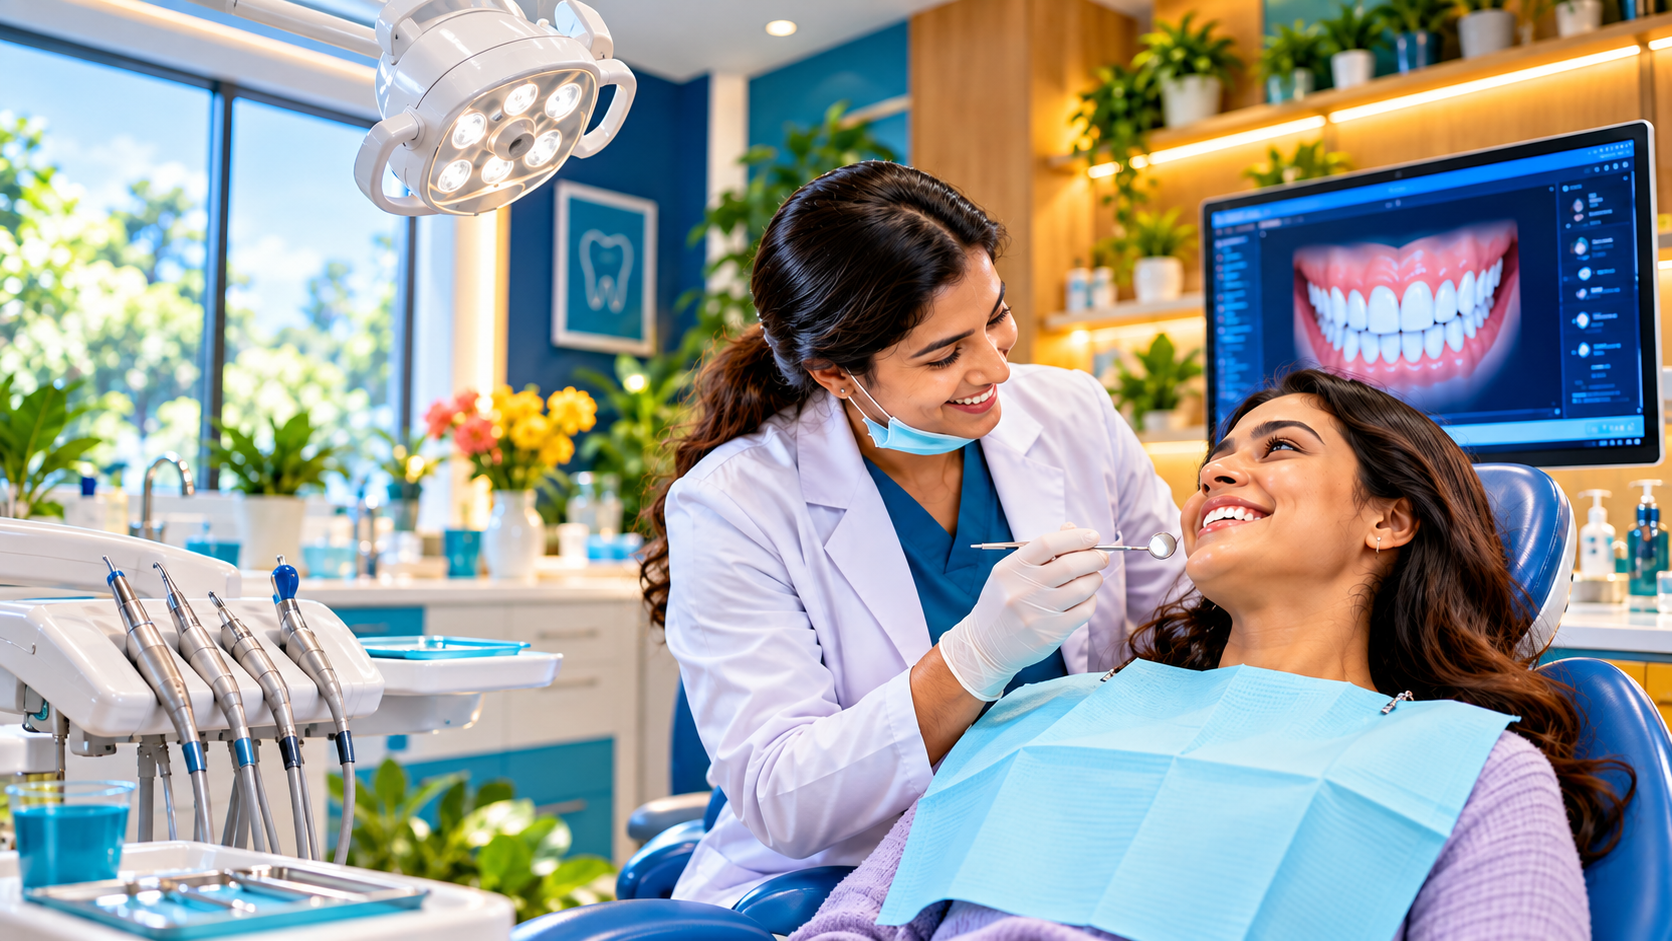
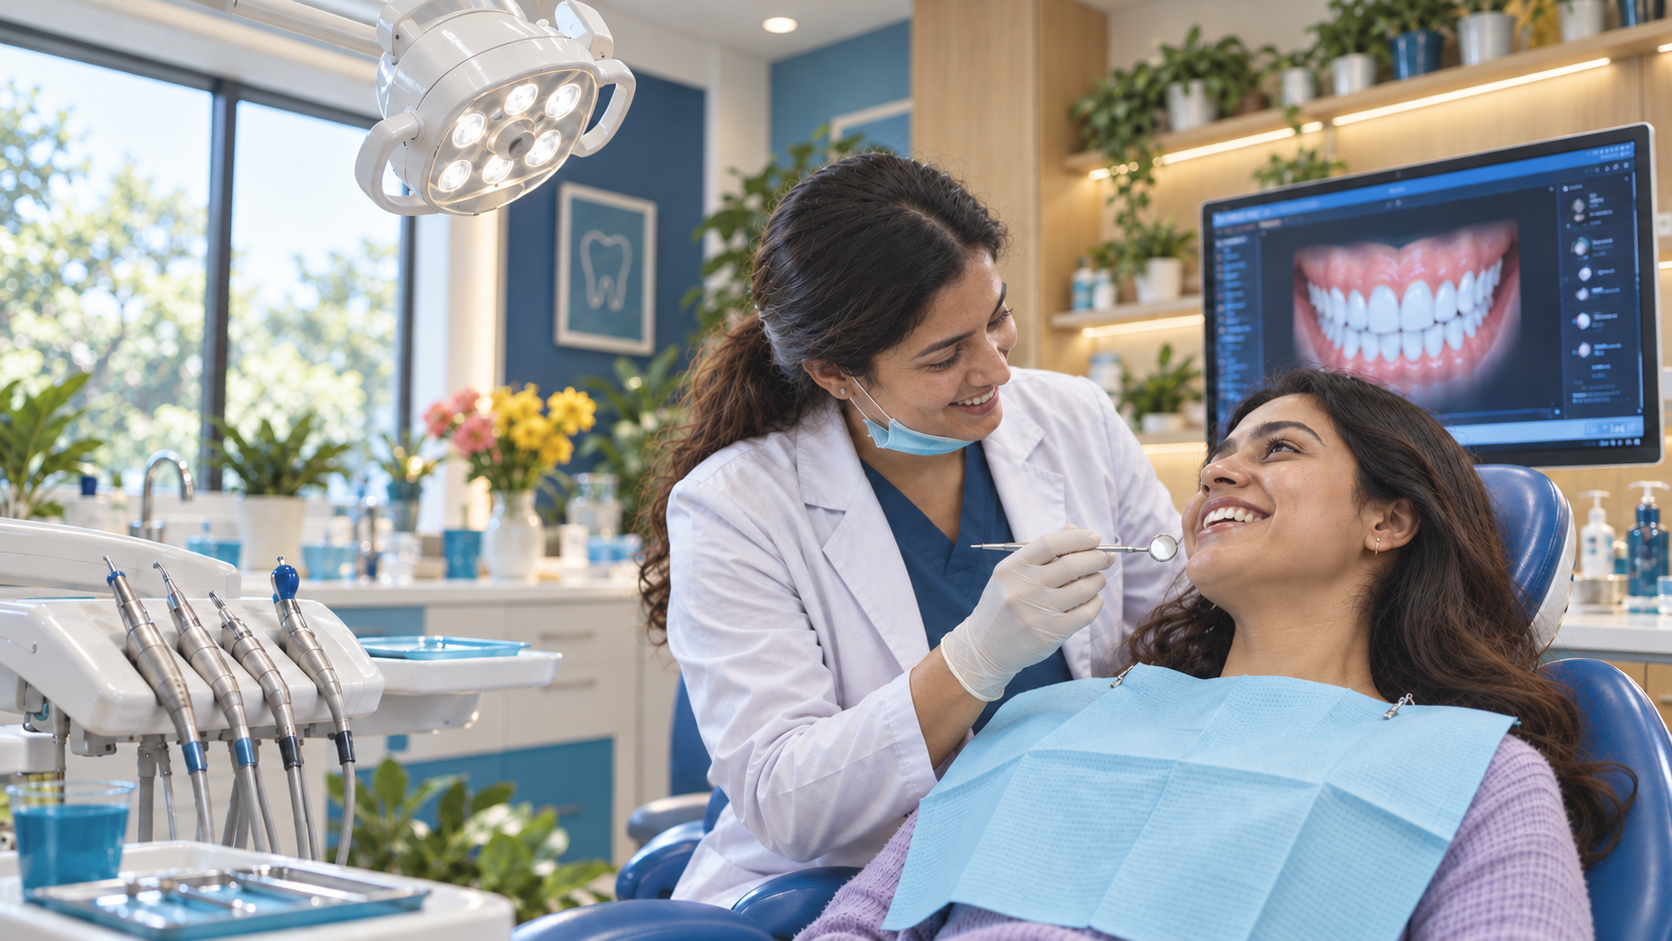
Update website

diff --git a/src/components/site/Sections.tsx b/src/components/site/Sections.tsx
@@ -39,12 +39,12 @@ import doctor1 from "@/assets/doctor-1.jpg";
 import doctor2 from "@/assets/doctor-2.jpg";
 import doctor3 from "@/assets/doctor-3.jpg";
 import doctor4 from "@/assets/doctor-4.jpg";
-import infrastructure1 from "@/assets/i1.jpg";
-import infrastructure2 from "@/assets/i2.jpg";
-import infrastructure3 from "@/assets/i3.jpg";
-import infrastructure4 from "@/assets/i4.jpg";
-import infrastructure5 from "@/assets/i5.jpg";
-import infrastructure6 from "@/assets/i6.jpg";
+import infrastructure1 from "@/assets/i1.png";
+import infrastructure2 from "@/assets/i2.png";
+import infrastructure3 from "@/assets/i3.png";
+import infrastructure4 from "@/assets/i4.png";
+import infrastructure5 from "@/assets/i5.png";
+import infrastructure6 from "@/assets/i6.png";
 import kidsDentistry from "@/assets/kids densitry.jpg";
 import rootCanalTreatment from "@/assets/root.jpg";
 import teethWhitening from "@/assets/teeth whitening.jpg";
@@ -421,8 +421,8 @@ export function Doctors() {
                     </li>
                   </ul>
                   <a
-                    href="#appointment"
-                    className="mt-6 flex items-center justify-center gap-2 rounded-full border border-accent px-4 py-2.5 text-sm font-semibold text-secondary-foreground transition-colors hover:bg-secondary"
+                    href={`/contact?doctor=${encodeURIComponent(doctor.name)}#appointment`}
+                    className="mt-6 flex items-center justify-center gap-2 rounded-full bg-gradient-to-r from-[#e879f9] via-[#c084fc] to-[#a855f7] px-4 py-2.5 text-sm font-semibold text-white shadow-[0_18px_42px_-18px_rgba(168,85,247,0.75)] transition-transform hover:scale-[1.02] hover:from-[#f0abfc] hover:via-[#d8b4fe] hover:to-[#b46cff] focus-visible:outline focus-visible:outline-2 focus-visible:outline-offset-2 focus-visible:outline-primary"
                   >
                     Book Appointment
                   </a>
@@ -547,7 +547,7 @@ export function Services() {
                     {service.text}
                   </p>
                   <a
-                    href="#appointment"
+                    href="/contact#appointment"
                     className="mt-6 inline-flex items-center justify-between gap-3 rounded-lg border border-[#c084fc]/70 bg-[#b45cff] px-4 py-3 text-sm font-semibold text-white shadow-[0_16px_34px_-18px_rgba(126,34,206,0.75)] transition-colors hover:border-[#a855f7] hover:bg-[#9b35ff]"
                   >
                     <span>Book Appointment</span>
@@ -570,7 +570,7 @@ export function Services() {
             </p>
             <div className="mt-7 flex flex-wrap justify-center gap-3">
               <a
-                href="#appointment"
+                href="/contact#appointment"
                 className="brand-gradient inline-flex items-center justify-center rounded-full px-6 py-3 text-sm font-semibold text-white shadow-soft transition-transform hover:scale-[1.02]"
               >
                 Book Appointment

diff --git a/src/components/site/Appointment.tsx b/src/components/site/Appointment.tsx
@@ -1,4 +1,5 @@
 import { CalendarHeart } from "lucide-react";
+import { useLocation } from "@tanstack/react-router";
 import { useState } from "react";
 import { toast } from "sonner";
 
@@ -33,7 +34,10 @@ type AppointmentProps = {
 };
 
 export function Appointment({ imageSrc, imageAlt = "SS Dental Hospital care team" }: AppointmentProps) {
+  const location = useLocation();
   const [submitting, setSubmitting] = useState(false);
+  const selectedDoctor = new URL(location.href, "https://ss-dental.local").searchParams.get("doctor");
+  const initialDoctor = selectedDoctor && doctors.includes(selectedDoctor) ? selectedDoctor : "";
 
   const getValue = (formData: FormData, field: string) => {
     const value = formData.get(field);
@@ -155,7 +159,13 @@ export function Appointment({ imageSrc, imageAlt = "SS Dental Hospital care team
                 <label htmlFor="doctor" className="mb-2 block text-sm font-medium">
                   Doctor
                 </label>
-                <select id="doctor" name="doctor" className={fieldClass} defaultValue="">
+                <select
+                  key={initialDoctor}
+                  id="doctor"
+                  name="doctor"
+                  className={fieldClass}
+                  defaultValue={initialDoctor}
+                >
                   <option value="" disabled>
                     Select doctor
                   </option>

diff --git a/src/routes/index.tsx b/src/routes/index.tsx
@@ -1,6 +1,5 @@
 import { createFileRoute } from "@tanstack/react-router";
 
-import { Appointment } from "@/components/site/Appointment";
 import { Footer } from "@/components/site/Footer";
 import { Hero } from "@/components/site/Hero";
 import { Navbar } from "@/components/site/Navbar";
@@ -26,7 +25,6 @@ function Index() {
       <WhyChoose />
       <BeforeAfterTreatment />
       <Facilities />
-      <Appointment />
       <EmergencyCTA />
       <Footer />
     </main>

diff --git a/vite.config.ts b/vite.config.ts
@@ -1,4 +1,4 @@
-// @lovable.dev/vite-tanstack-config already includes the following — do NOT add them manually
+// @lovable.dev/vite-tanstack-config already includes the following - do NOT add them manually
 // or the app will break with duplicate plugins:
 //   - TanStack devtools (dev-only, first), tanstackStart, viteReact, tailwindcss, tsConfigPaths,
 //     nitro (build-only using cloudflare as a default target), VITE_* env injection, @ path alias,

diff --git a/src/routes/doctors.tsx b/src/routes/doctors.tsx
@@ -1,6 +1,5 @@
 import { createFileRoute } from "@tanstack/react-router";
 
-import { Appointment } from "@/components/site/Appointment";
 import { PageLayout } from "@/components/site/PageLayout";
 import { Doctors, Testimonials } from "@/components/site/Sections";
 
@@ -10,7 +9,6 @@ function DoctorsPage() {
   return (
     <PageLayout>
       <Doctors />
-      <Appointment />
       <Testimonials />
     </PageLayout>
   );

diff --git a/src/routes/services.tsx b/src/routes/services.tsx
@@ -1,6 +1,5 @@
 import { createFileRoute } from "@tanstack/react-router";
 
-import { Appointment } from "@/components/site/Appointment";
 import { PageLayout } from "@/components/site/PageLayout";
 import { Services, TechExperience } from "@/components/site/Sections";
 
@@ -11,7 +10,6 @@ function ServicesPage() {
     <PageLayout>
       <Services />
       <TechExperience />
-      <Appointment />
     </PageLayout>
   );
 }
